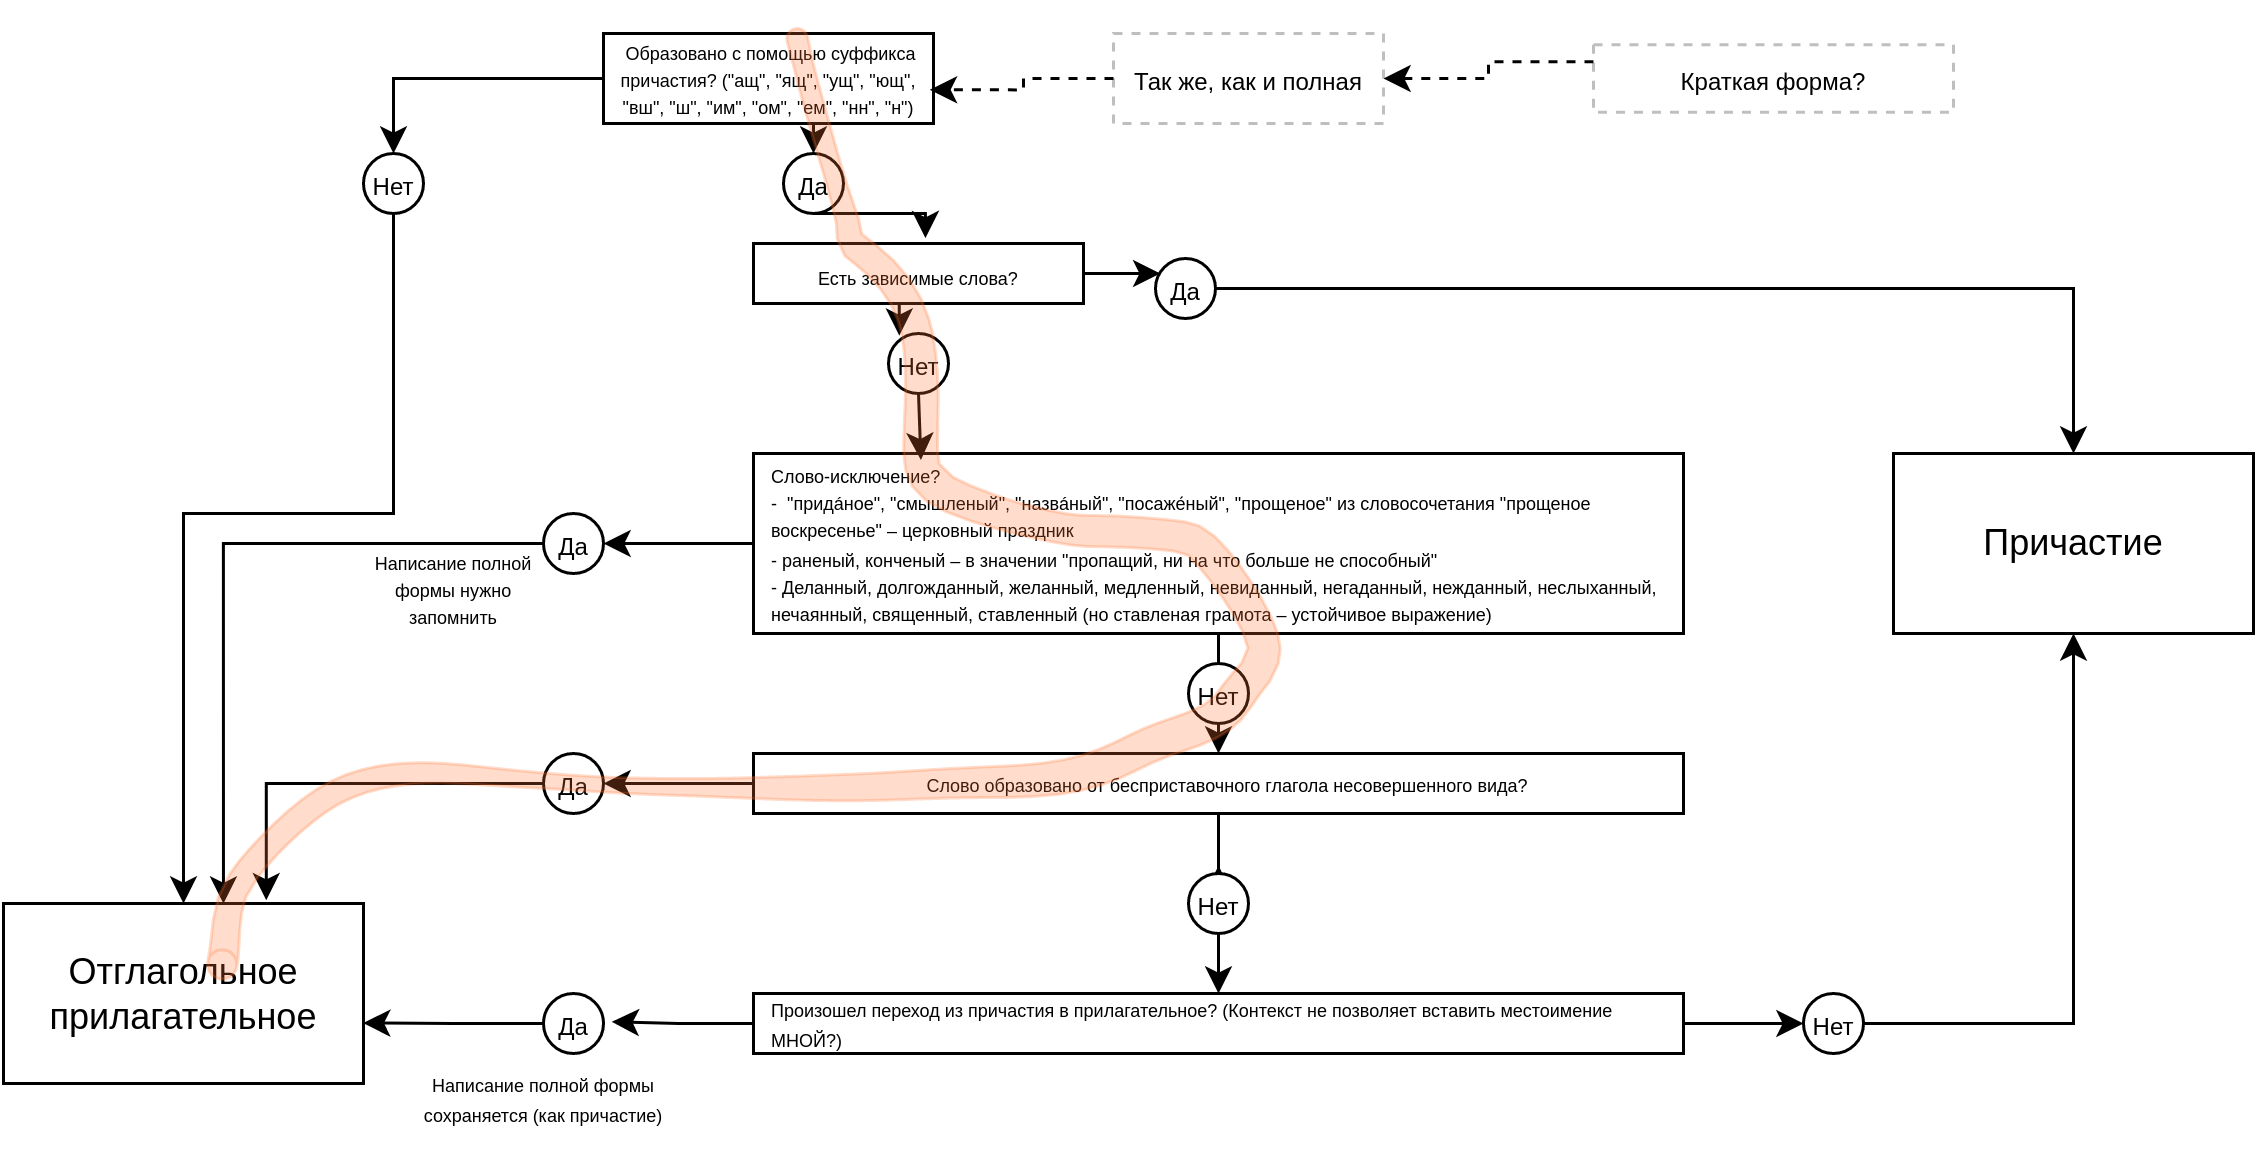
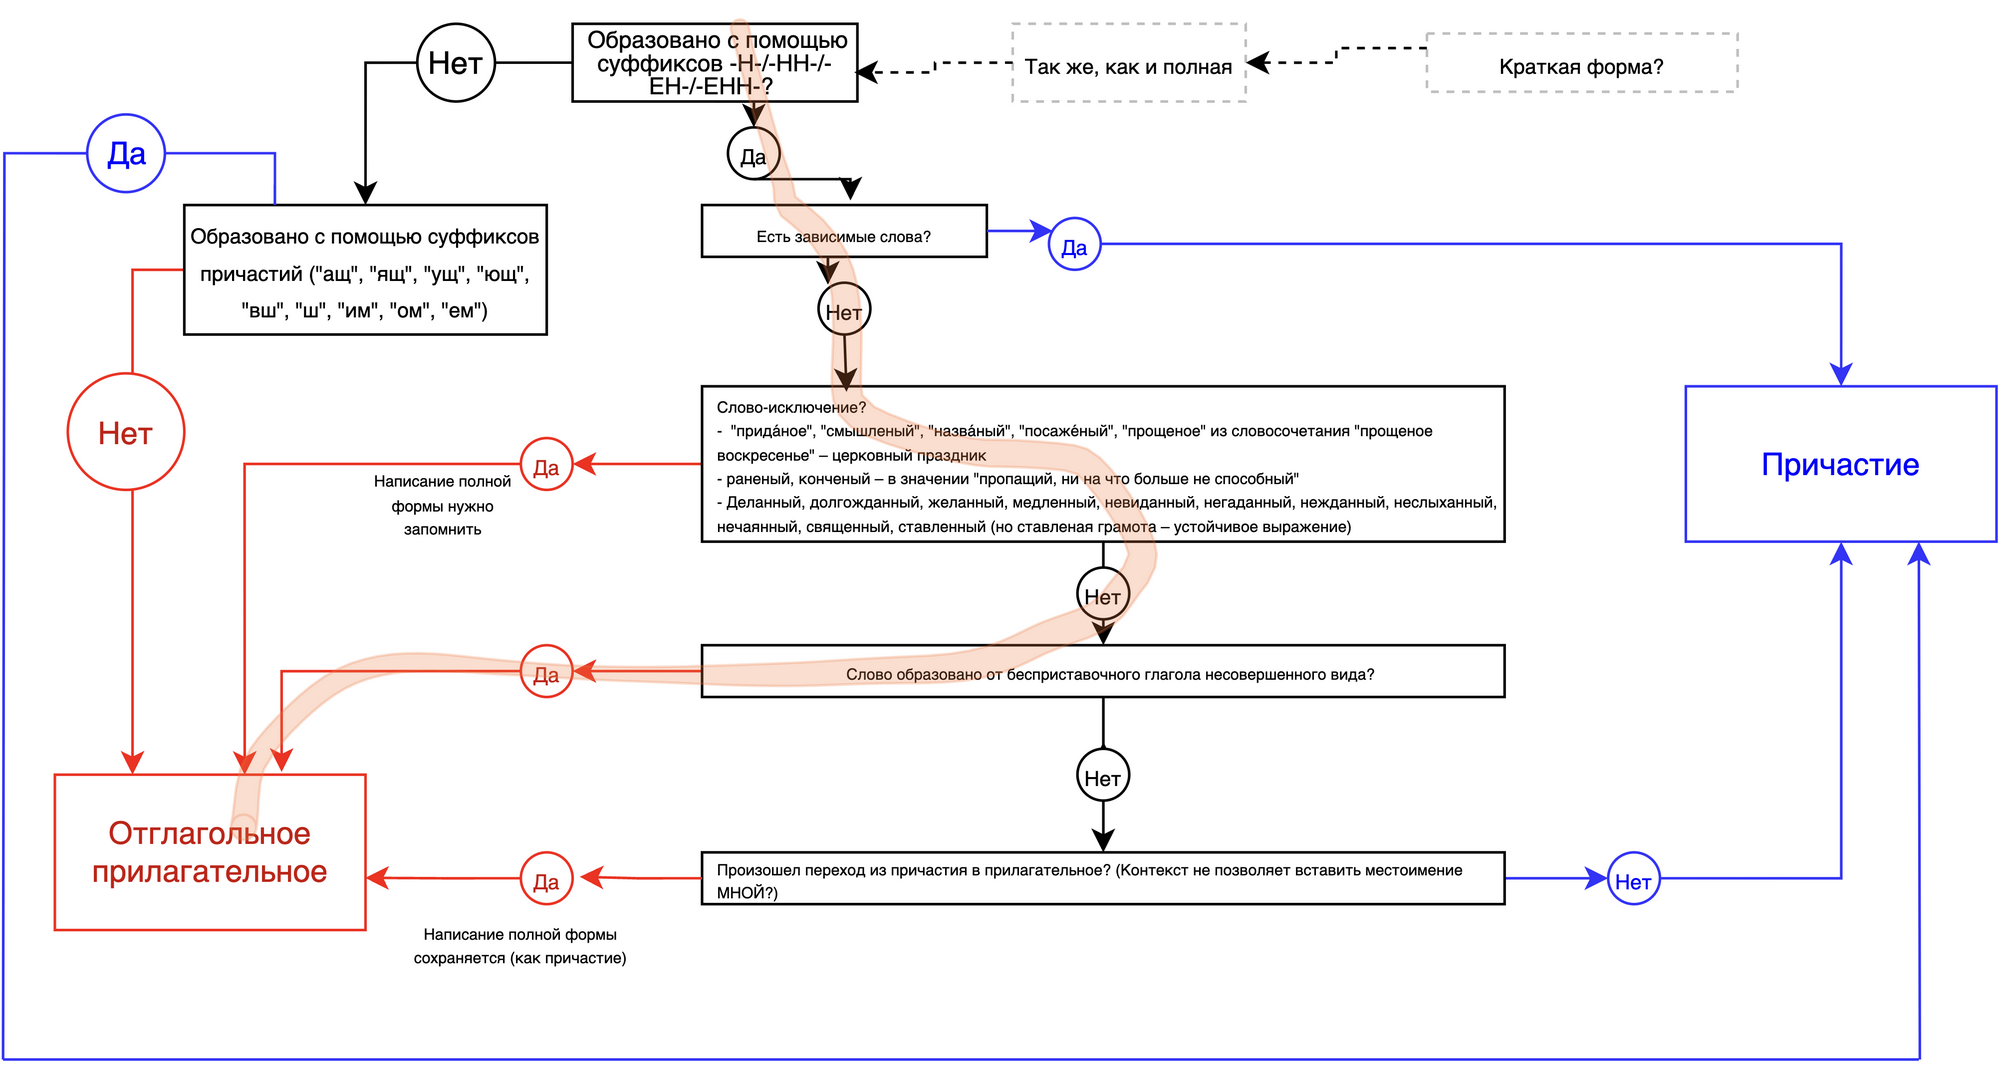
update diagrams

diff --git a/app/public/diagrams/ru/generate-pngs.py b/app/public/diagrams/ru/generate-pngs.py
@@ -10,9 +10,10 @@ def convert_to_latin(text):
         'й': 'y', 'к': 'k', 'л': 'l', 'м': 'm', 'н': 'n', 'о': 'o', 'п': 'p', 'р': 'r', 'с': 's', 'т': 't',
         'у': 'u', 'ф': 'f', 'х': 'h', 'ц': 'ts', 'ч': 'ch', 'ш': 'sh', 'щ': 'sch', 'ъ': '', 'ы': 'y', 'ь': '',
         'э': 'e', 'ю': 'yu', 'я': 'ya', ' ': '_',  # Replace spaces with underscores,
+        '–': '_',
         '0': '0', '1': '1', '2': '2', '3': '3', '4': '4', '5': '5', '6': '6', '7': '7', '8' : '8', '9': '9',
-        '-': '-', 'a': 'a', 'b': 'b', 'c': 'c', 'd': 'd', 'e': 'e', 'f': 'f', 'g': 'g', 'h': 'h', 'i': 'i', 
-        'j': 'j', 'k': 'k', 'l': 'l', 'm': 'm', 'n': 'n', 'o': 'o', 'p': 'p', 'q': 'q', 'r': 'r', 's': 's', 
+        '-': '_', 'a': 'a', 'b': 'b', 'c': 'c', 'd': 'd', 'e': 'e', 'f': 'f', 'g': 'g', 'h': 'h', 'i': 'i',
+        'j': 'j', 'k': 'k', 'l': 'l', 'm': 'm', 'n': 'n', 'o': 'o', 'p': 'p', 'q': 'q', 'r': 'r', 's': 's',
         't': 't', 'u': 'u', 'v': 'v', 'w': 'w', 'x': 'x', 'y': 'y', 'z': 'z'
     }
     return ''.join(mapping.get(c.lower(), '_') for c in text)
@@ -40,7 +41,8 @@ def process_xml(xml_file):
             cell.set('visible', '0')
 
             output_file = f"{latin_filename}.png"
-            curl_command = f'curl -d @{new_filename} -H "Accept: image/png" \'http://localhost:5000/convert_file?scale=3\' --output {output_file}'
+            # curl_command = f'curl -d @{new_filename} -H "Accept: image/png" \'http://localhost:5000/convert_file?scale=3\' --output {output_file}'
+            curl_command = f'/Applications/draw.io.app/Contents/MacOS/draw.io -x -f png --width 2000 -o {output_file} {new_filename}'
             subprocess.run(curl_command, shell=True)
 
             print(f"Converted {new_filename} to {output_file}")
